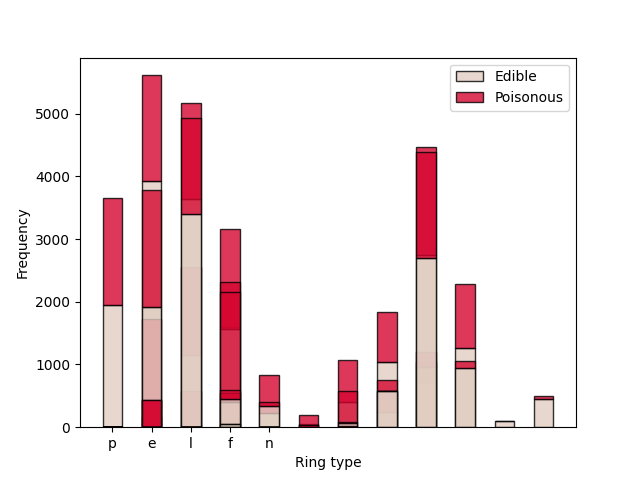
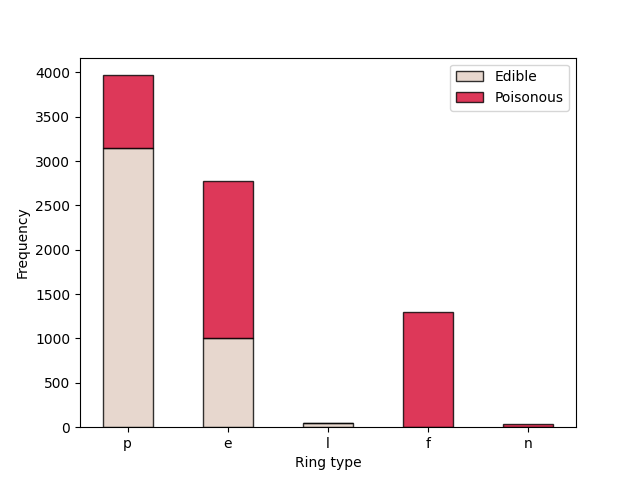
Fixed a bug where histograms were not saved correctly

diff --git a/development/data_understanding.py b/development/data_understanding.py
@@ -48,10 +48,12 @@ dataset_edible = dataset[dataset['class'] == 'e']
 dataset_poisonous = dataset[dataset['class'] == 'p']
 # Creazione degli istogrammi relativi alla distribuzione delle classi rispetto a ciascuna caratteristica del dataset
 for column in dataset.columns[1:]:
+    # Chiusura di tutte le figure "aperte" per evitare sovrapposizioni e visualizzazione distorta degli istogrammi
+    plt.close("all")
     # Inizializzazione di un array contenente tutti i valori che la colonna può assumere
     unique_values = dataset[column].unique()
     # Inizializzazione di un array contenente valori da 0 al numero di valori della colonna, che corrisponderà al numero
-    # dei bins (barre verticali) contenuti nell'istogramma. Si sottrae 0.5 per centrare il bin rispetto al valore
+    # dei bins (barre verticali) contenuti nell'istogramma. Si sottrae 0.5 per centrare il bin rispetto all'etichetta
     bins = np.arange(len(unique_values) + 1) - 0.5
 
     # Creazione dell'istogramma
@@ -67,8 +69,9 @@ for column in dataset.columns[1:]:
     plt.ylabel("Frequency")
     # Creazione della legend dell'istogramma
     plt.legend(["Edible", "Poisonous"])
-    # Visualizzazione dell'istogramma
-    plt.savefig("../plots/histograms/" + column + "_distribution.png")
+    # Salvataggio dell'istogramma
+    plt.savefig(os.path.join("..", "plots", "histograms", column + "_distribution.png"), format="png")
+    # plt.show()
 
 
 # Conversione delle variabili categoriche in variabili numeriche (encoding), necessario per creare la heatmap
@@ -97,7 +100,7 @@ dataset2.to_csv(dataset2_path, index=False)
 
 # Calcolo delle correlazioni tra le features del dataset
 correlations = dataset2[dataset2.columns[1:]].corr()
-# Risoluzione dell'immagine
+# Risoluzione dell'immagine contenente la heatmap
 fig, ax = plt.subplots(figsize=(8, 7))
 # Posizionamento della heatmap all'interno dell'immagine
 fig.subplots_adjust(left=0.15, right=1, top=1, bottom=0.1)
@@ -106,13 +109,18 @@ heatmap = sns.heatmap(correlations, cmap="hot", vmin=-1, vmax=1, annot=True, ann
                       cbar_kws={"shrink": 0.7}, square=True, ax=ax)
 heatmap.set_xticklabels(heatmap.get_xticklabels(), fontsize=5)
 heatmap.set_yticklabels(heatmap.get_yticklabels(), fontsize=5)
-plt.savefig("../plots/heatmap.png")
+# Salvataggio della heatmap
+plt.savefig(os.path.join("..", "plots", "heatmap.png"), format="png")
+# plt.show()
 
-# Controllo del bilanciamento della classe da predire
-# Risoluzione dell'immagine
+
+# Risoluzione dell'immagine contenete il pie plot
 fig, ax = plt.subplots(figsize=(7, 6))
-# Posizionamento della heatmap all'interno dell'immagine
+# Posizionamento del pie plot all'interno dell'immagine
 fig.subplots_adjust(left=0, right=1, top=1, bottom=0.1)
+# Creazione del pie plot per controllare il bilanciamento della classe da predire
 plt.pie(dataset2['poisonous'].value_counts(), labels=['Edible', 'Poisonous'], colors=["#E1CDC2", "#D50630"],
         explode=(0, 0.015), autopct="%0.2f", startangle=90, textprops={'fontsize': 11})
-plt.savefig("../plots/balancing.png")
+# Salvataggio del pie plot
+plt.savefig(os.path.join("..", "plots", "balancing.png"), format="png")
+#plt.show()
